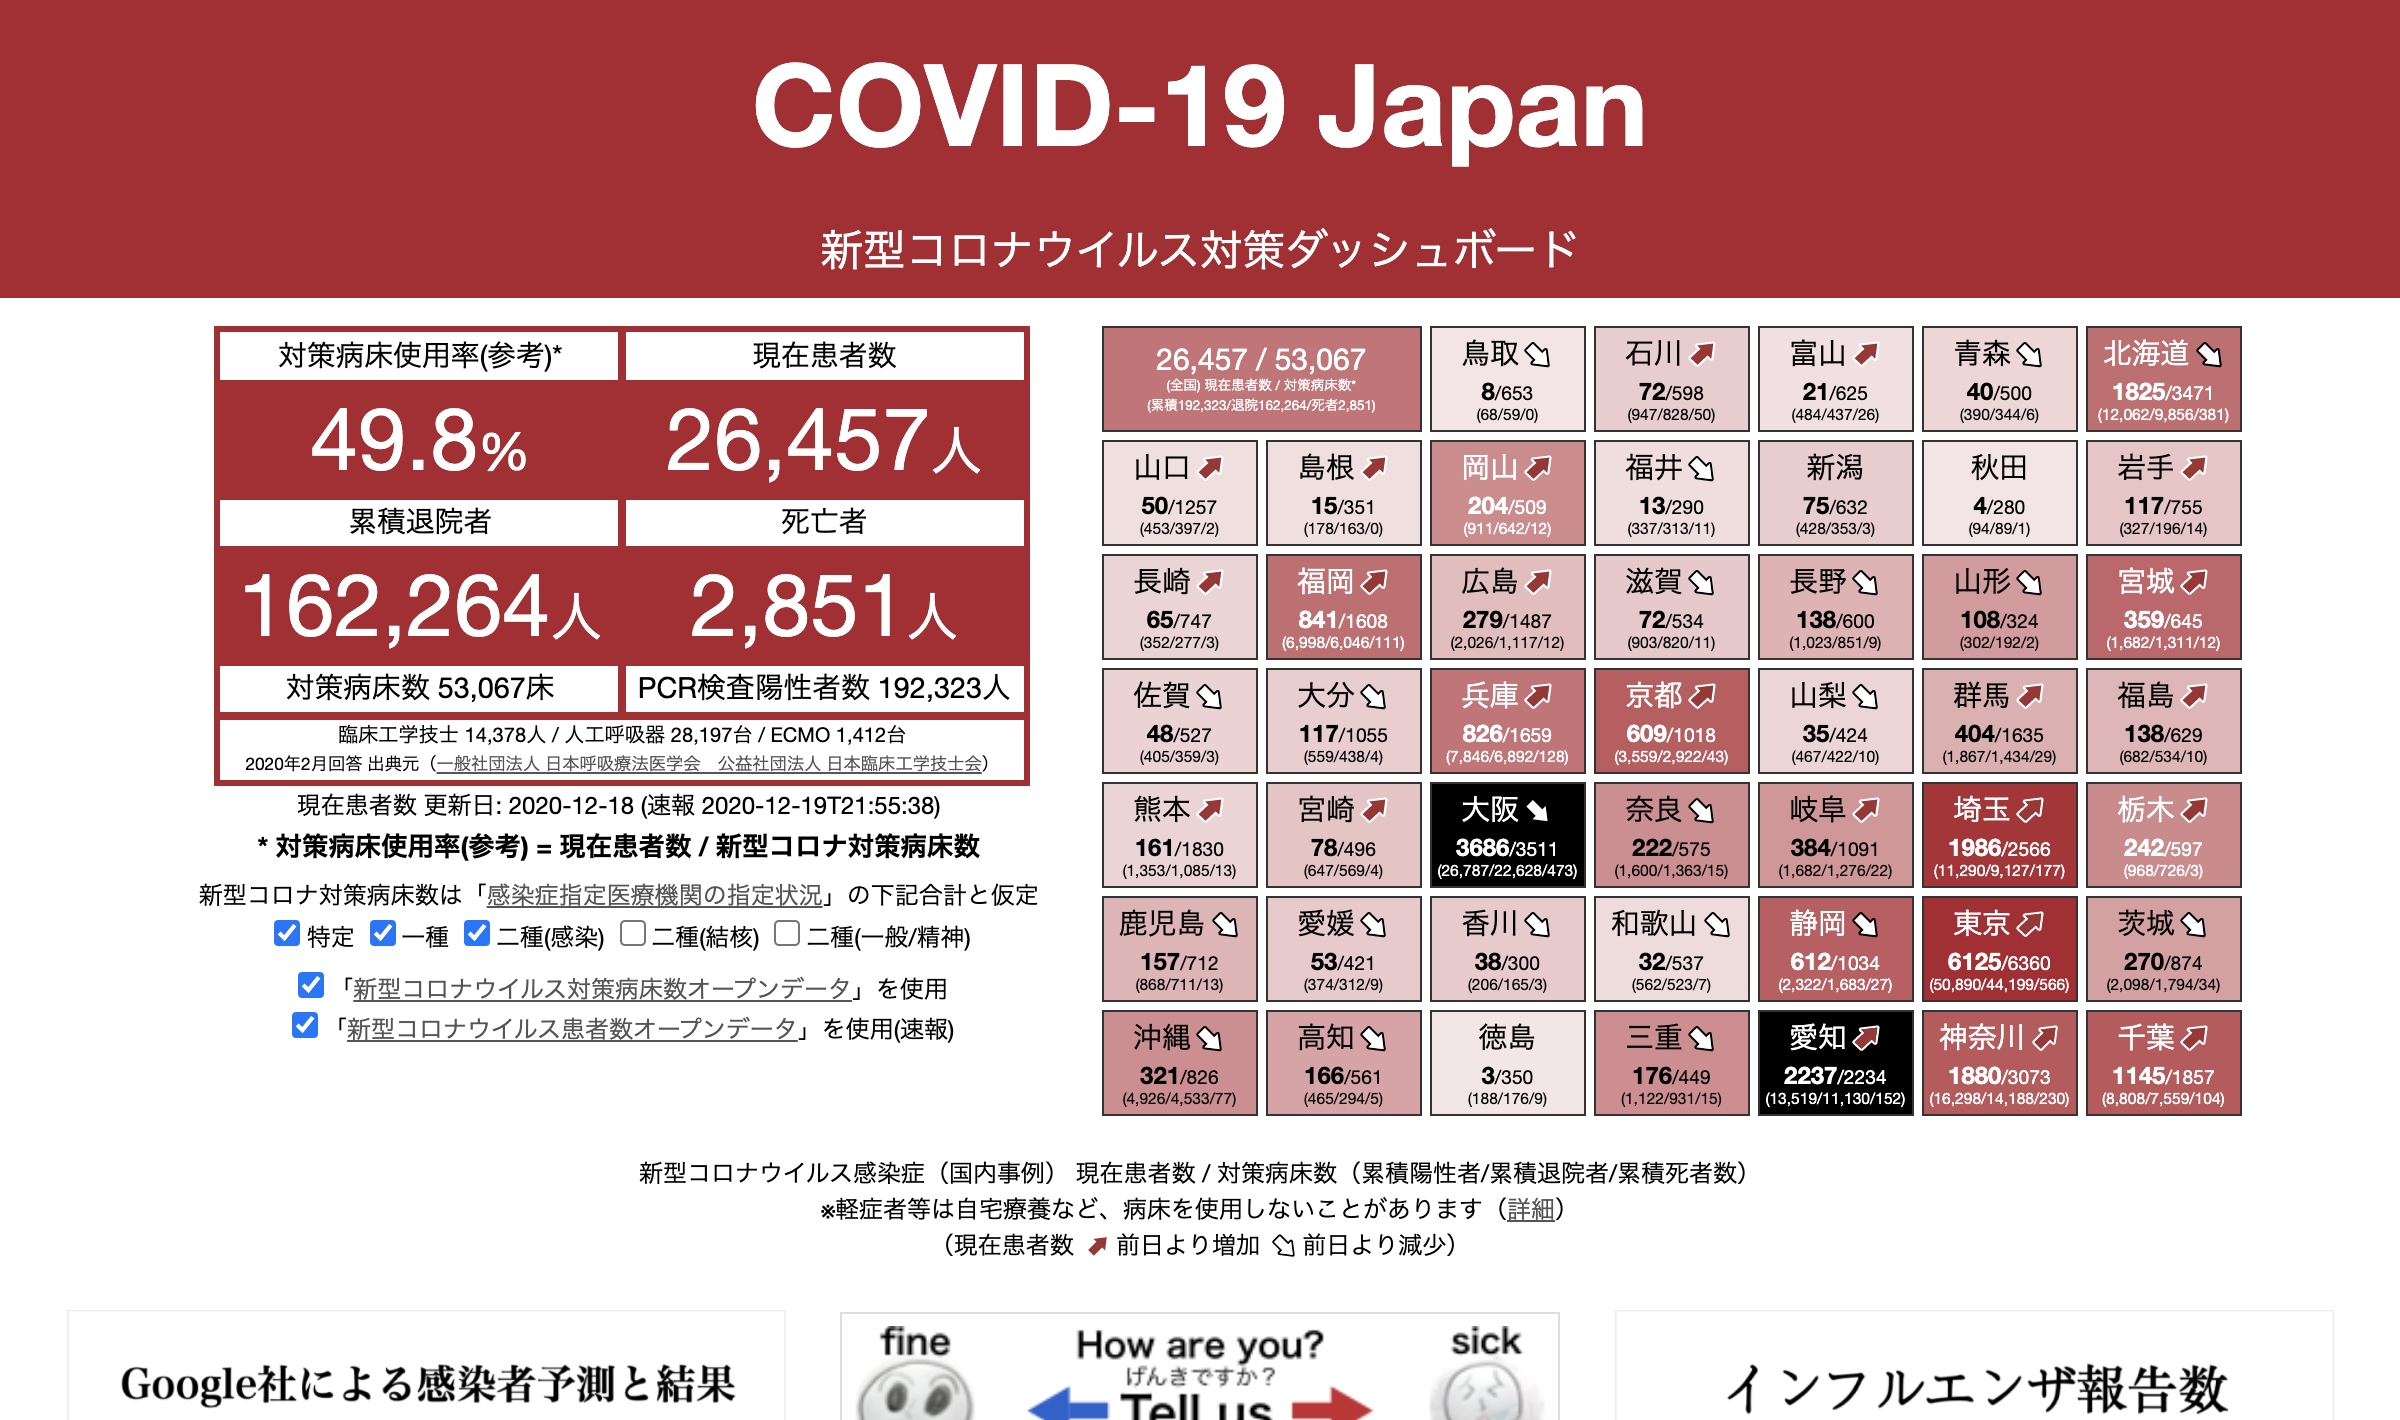
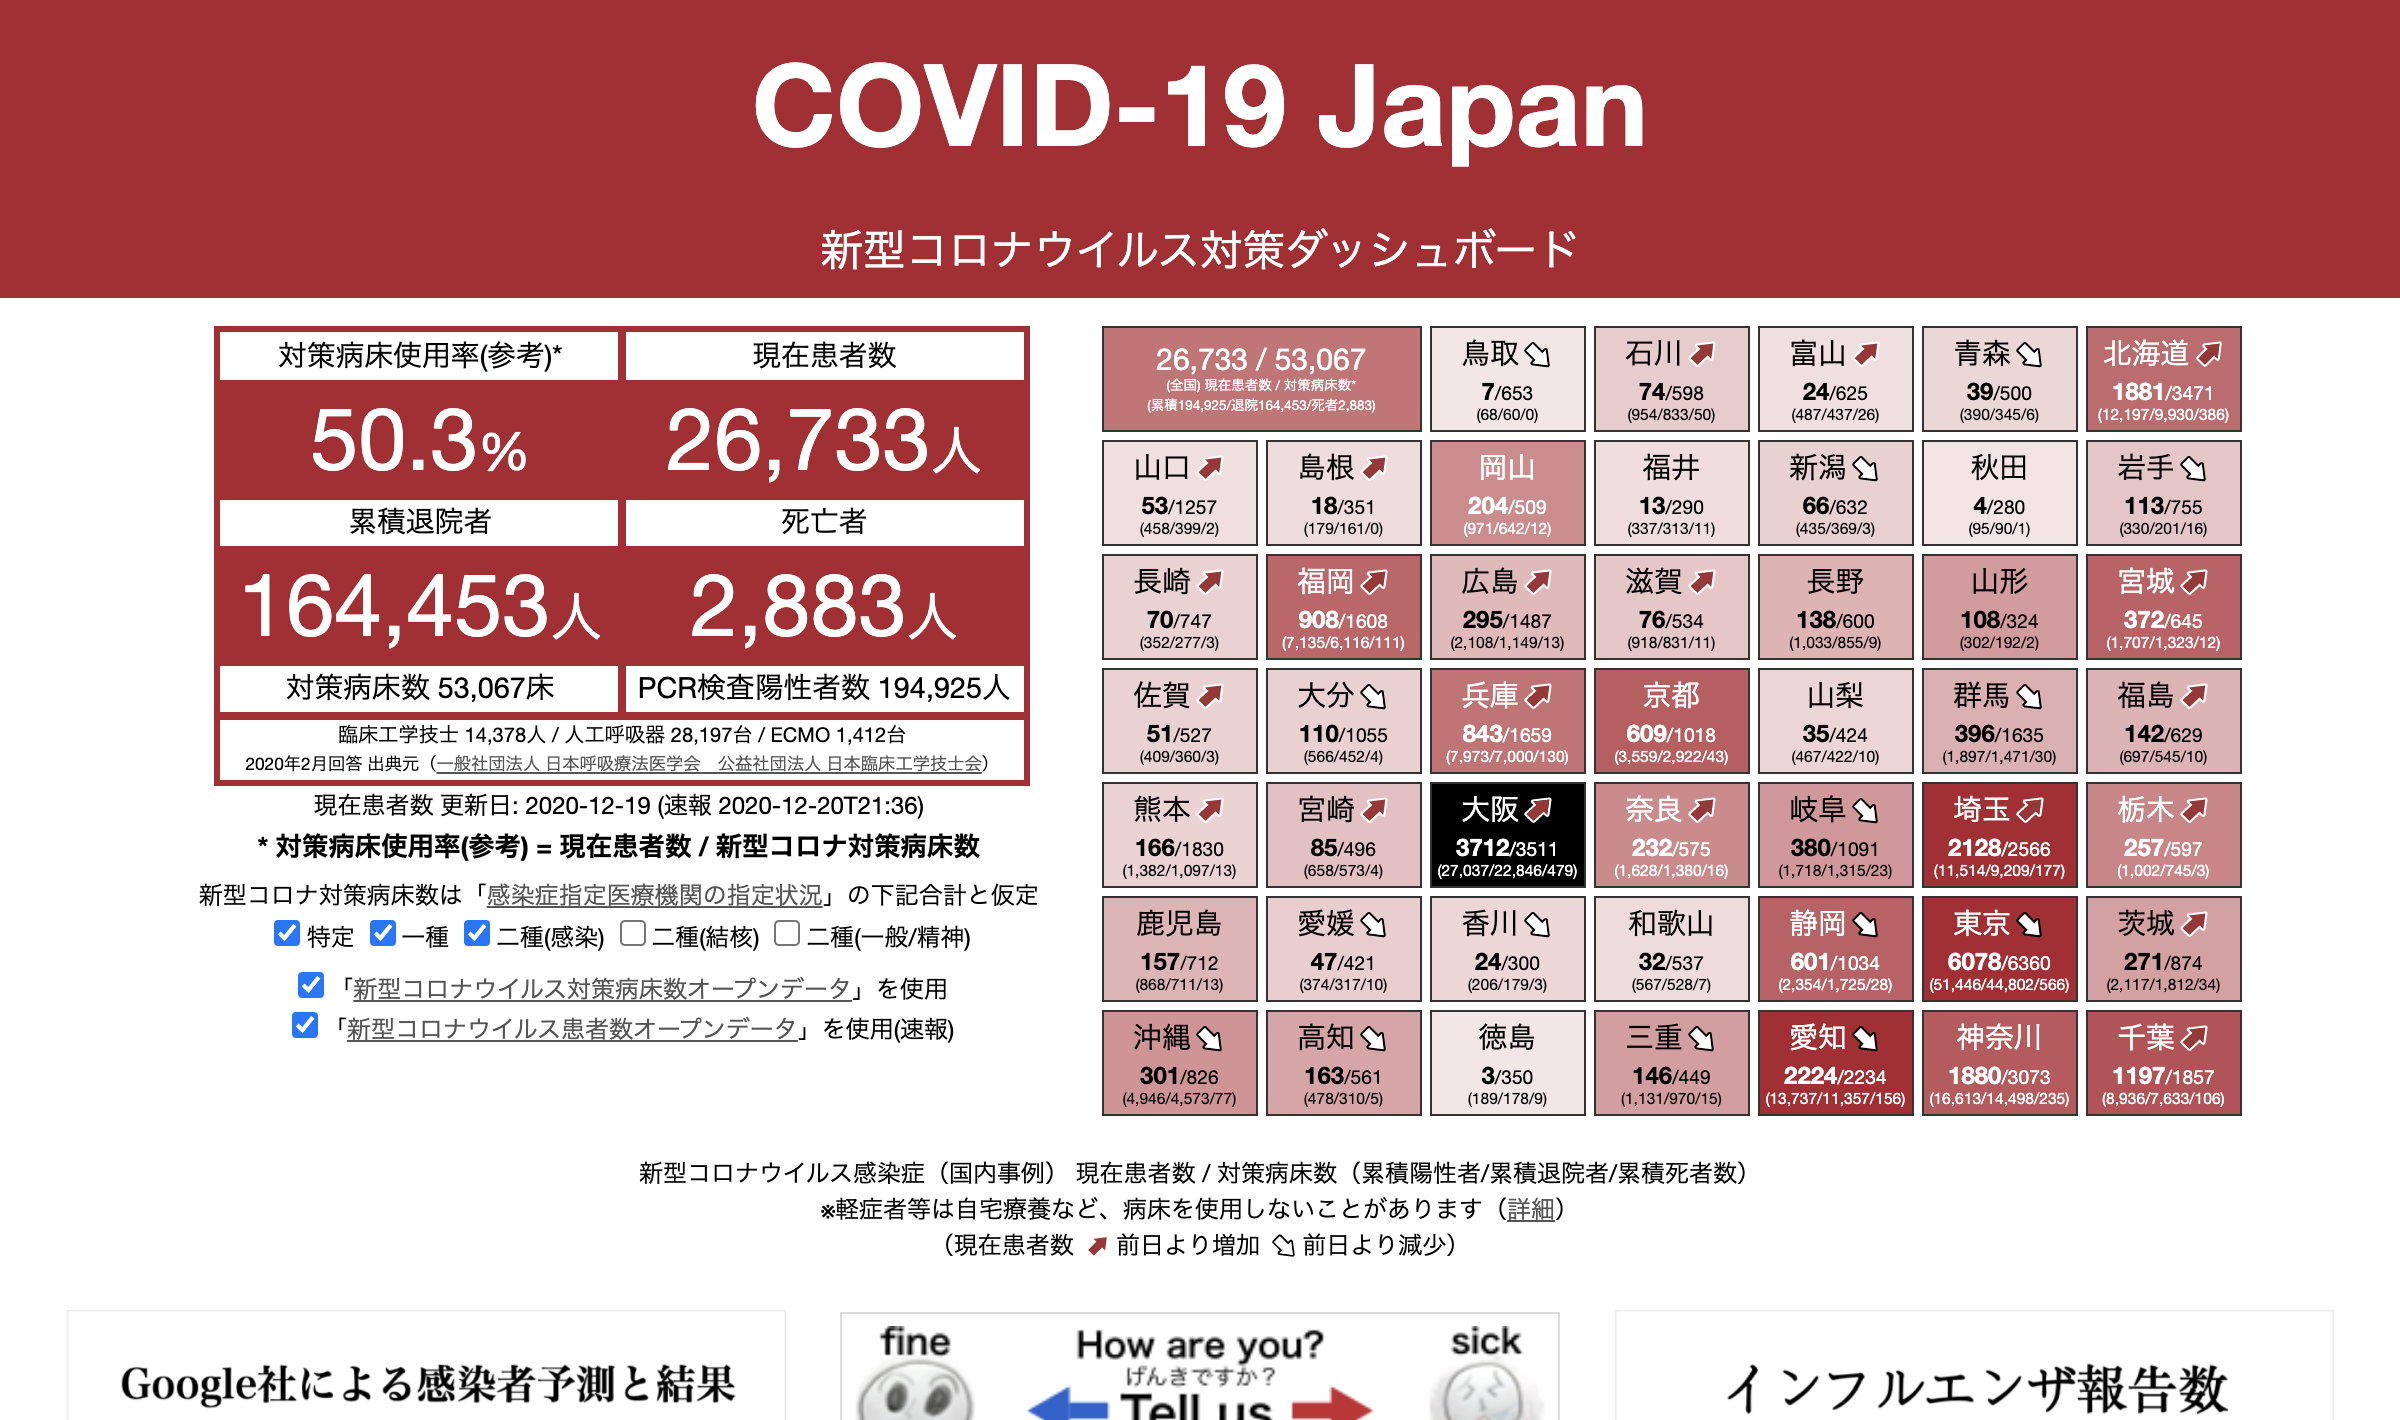
update data

diff --git a/index.html b/index.html
@@ -20,8 +20,8 @@ gtag('config', 'UA-162141832-1')
 <link rel="apple-touch-icon" href="covid19japan-leargeicon.png"/>
 <meta name="msapplication-square310x310logo" content="covid19japan-leargeicon.png"/>
 <meta name="twitter:card" content="summary_large_image"/>
-<meta property="og:image"  content="https://www.stopcovid19.jp/ogp/covid19japan_ogp_20201220010015.png"/>
-<meta name="twitter:image" content="https://www.stopcovid19.jp/ogp/covid19japan_ogp_20201220010015.png"/>
+<meta property="og:image"  content="https://www.stopcovid19.jp/ogp/covid19japan_ogp_20201220230301.png"/>
+<meta name="twitter:image" content="https://www.stopcovid19.jp/ogp/covid19japan_ogp_20201220230301.png"/>
 
 <meta name="viewport" content="width=device-width, initial-scale=1.0"/>
 <meta name="format-detection" content="telephone=no"/>
